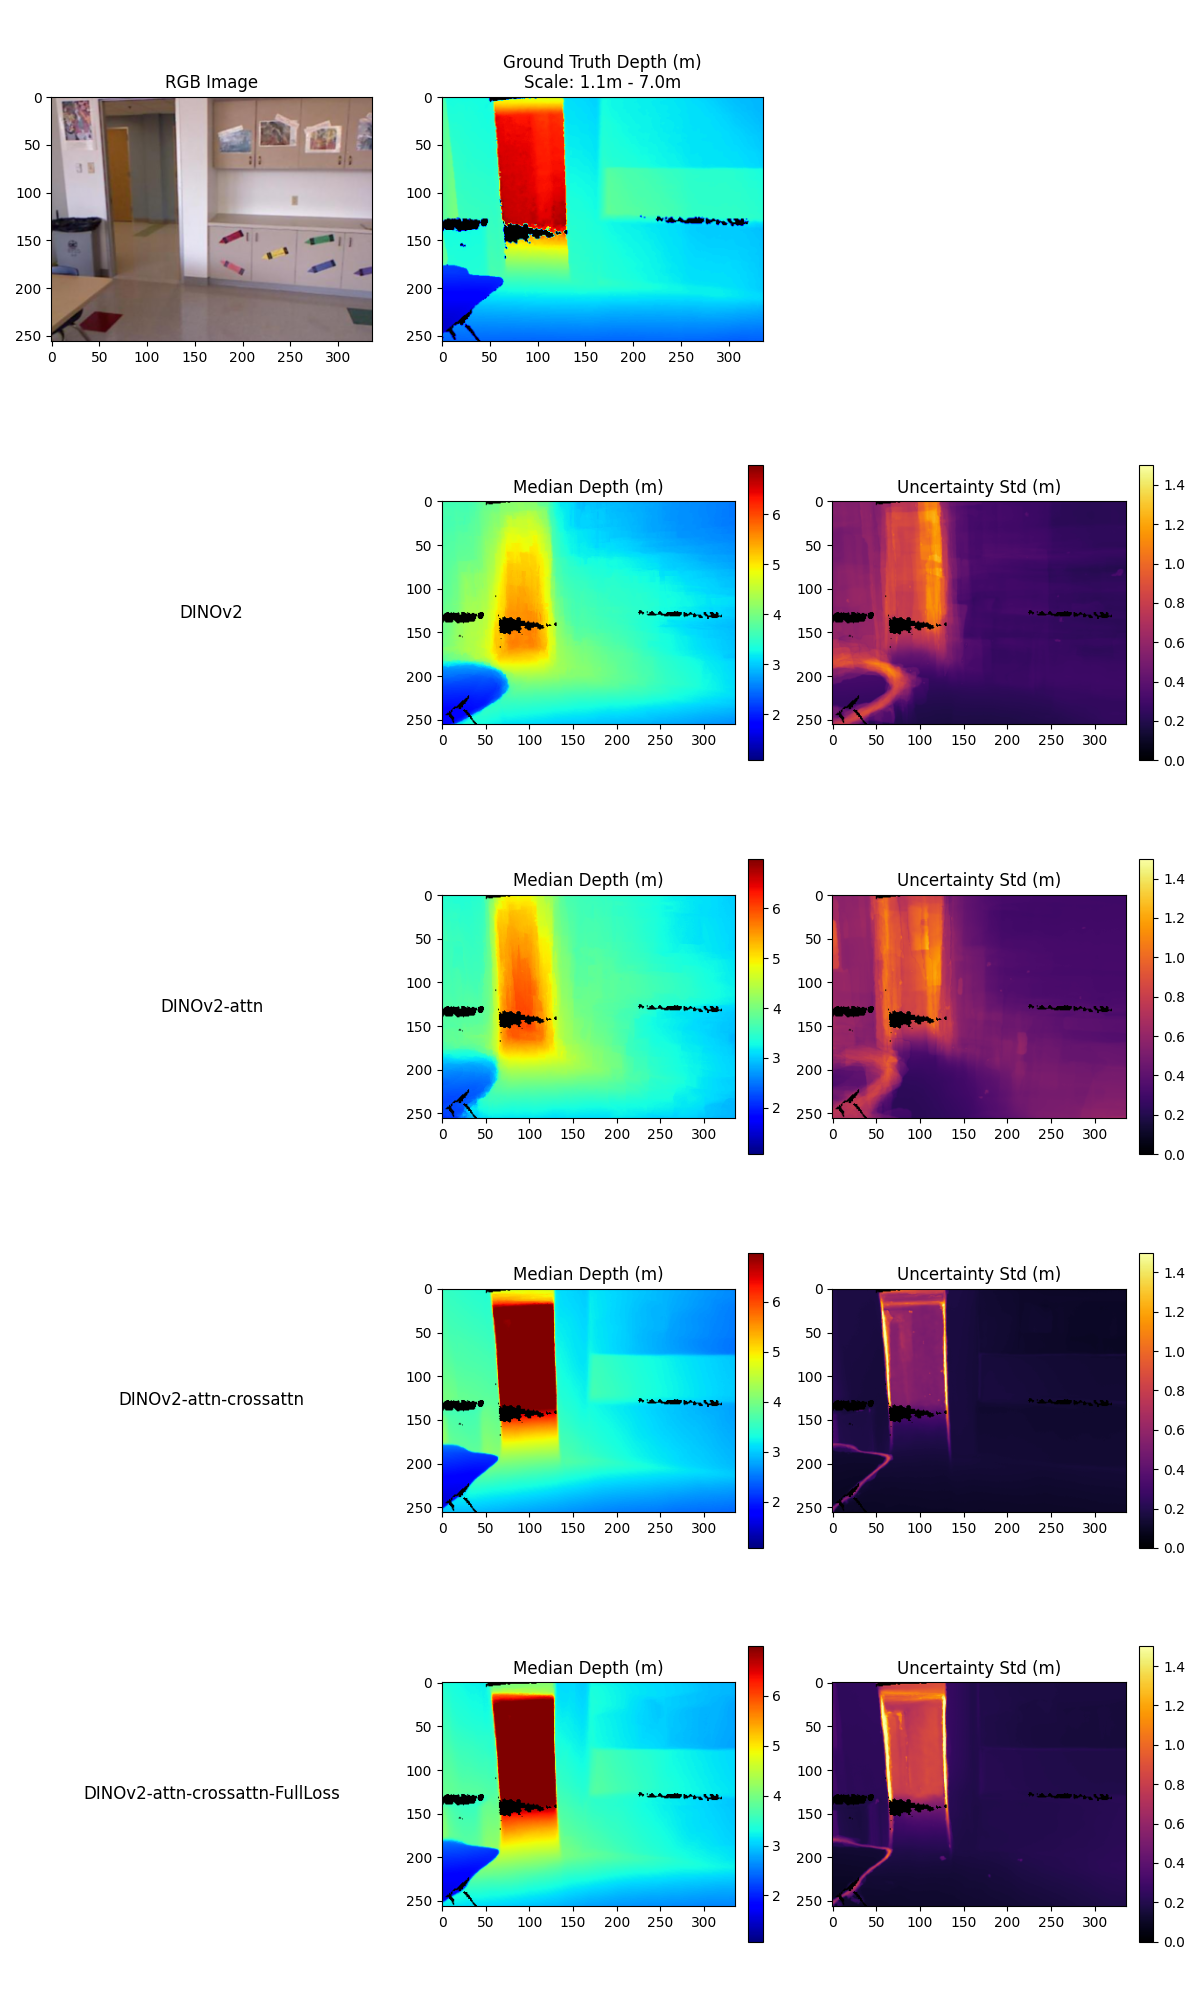
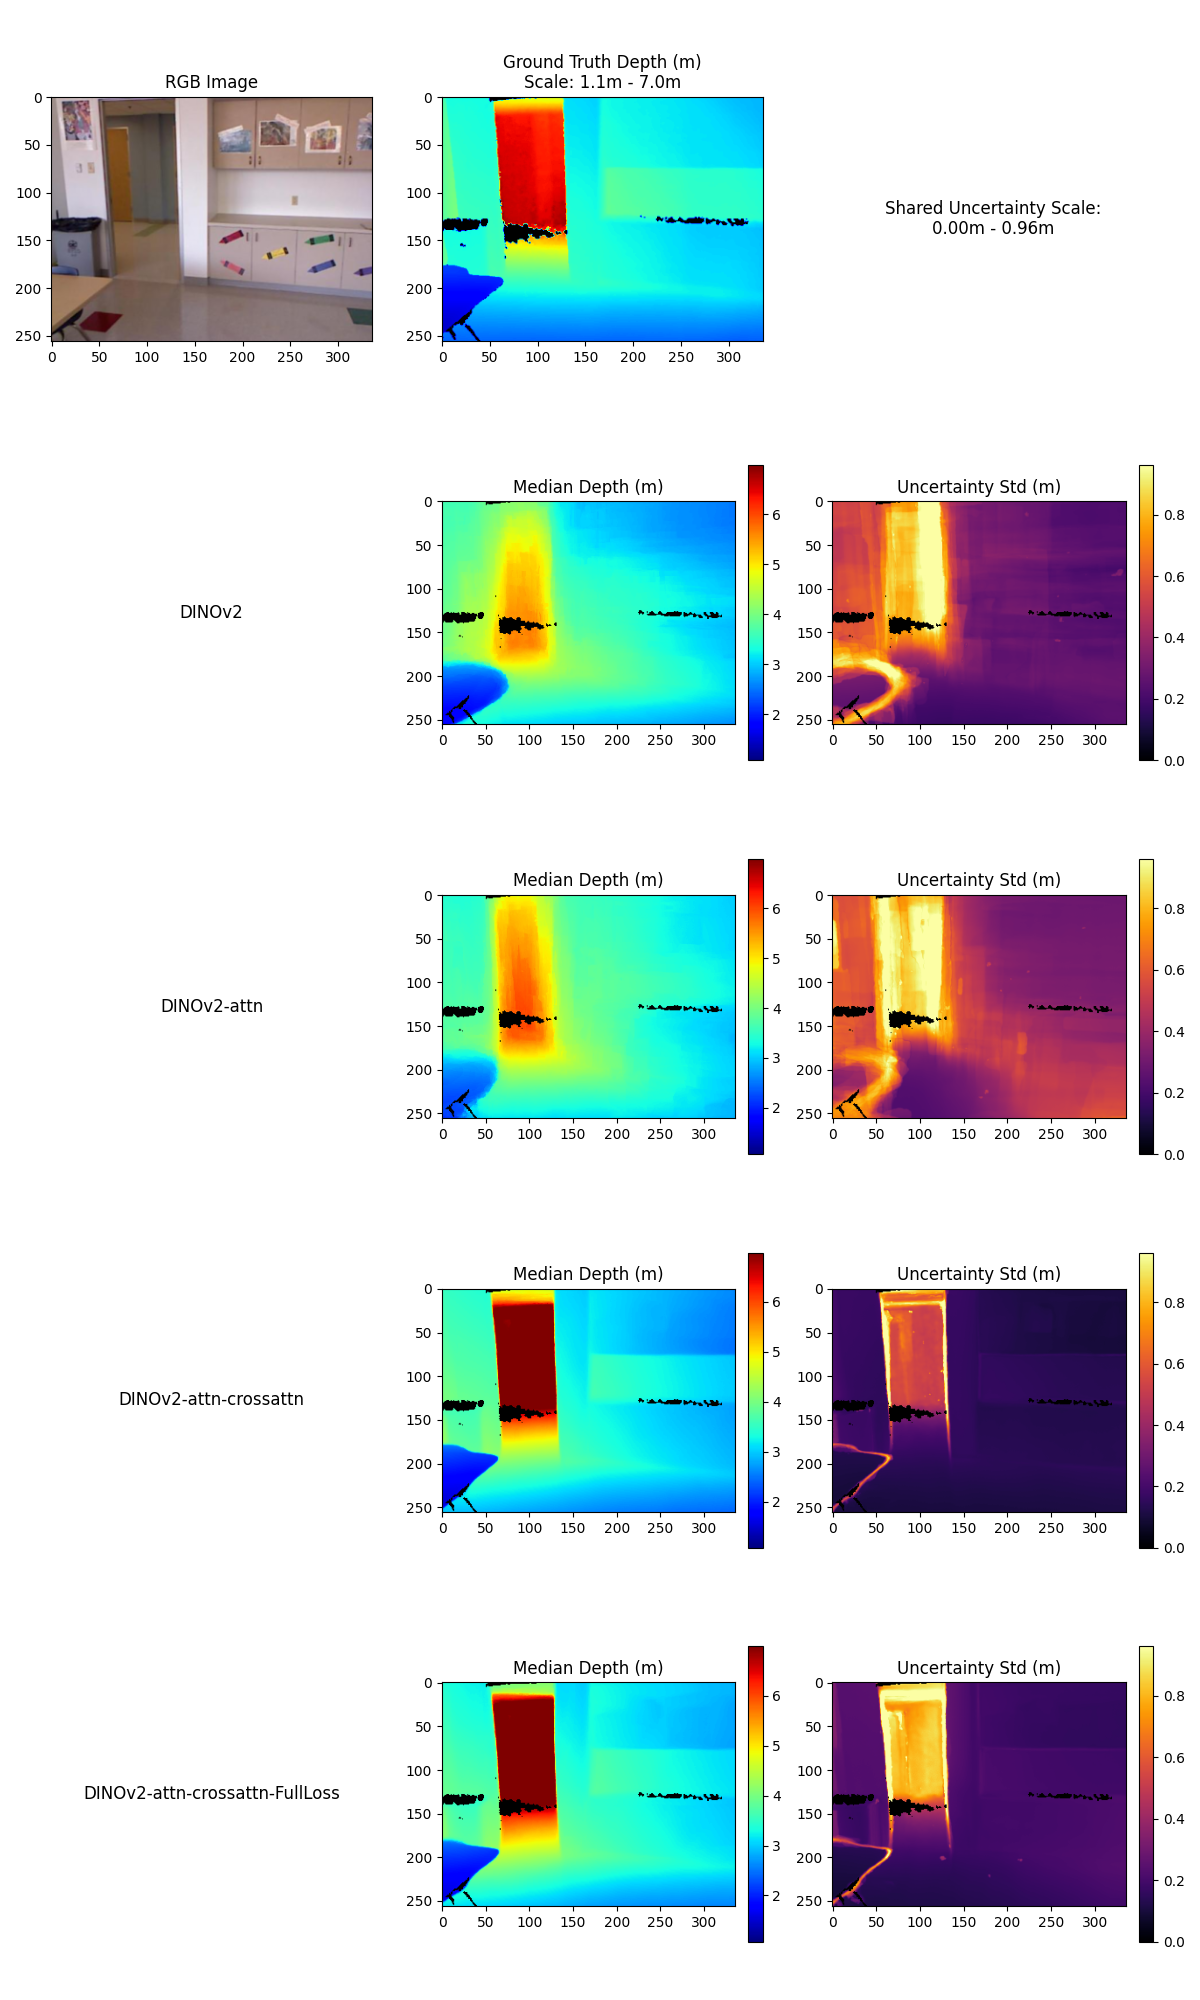
Dynamic std limits

diff --git a/src/compare_dinov2.py b/src/compare_dinov2.py
@@ -57,7 +57,6 @@ def create_superimposed_calibration(run_names, run_data, output_path):
     for name, data in zip(run_names, run_data):
         if data is not None and 'expected' in data:
             area_error = np.trapz(np.abs(data['observed'] - data['expected']), data['expected'])
-            
             plt.plot(data['expected'], data['observed'], label=f"{name} (AE: {area_error:.3f})", linewidth=2)
             
     plt.plot([0, 1], [0, 1], linestyle='--', color='red', alpha=0.6, label="Ideal")
@@ -88,12 +87,24 @@ def create_model_comparison_grid(rgb, gt_metric, mask, models_data, sample_idx, 
     
     gt_np[~valid_mask] = np.nan
     
+    # Dynamically calculate the smallest 99th percentile std across all models
+    std_p99_list = []
+    for run_name, data in models_data.items():
+        std_np = data['std'].squeeze().astype(float)
+        if valid_mask.any():
+            std_p99_list.append(np.percentile(std_np[valid_mask], 99))
+            
+    std_vmax = min(std_p99_list) if std_p99_list else 1.5
+
     axes[0, 0].imshow(rgb.permute(1, 2, 0).cpu().numpy())
     axes[0, 0].set_title("RGB Image")
     
     axes[0, 1].imshow(gt_np, cmap=cmap_jet, vmin=vmin, vmax=vmax)
     axes[0, 1].set_title(f"Ground Truth Depth (m)\nScale: {vmin:.1f}m - {vmax:.1f}m")
+    
     axes[0, 2].axis('off')
+    axes[0, 2].text(0.5, 0.5, f"Shared Uncertainty Scale:\n0.00m - {std_vmax:.2f}m", 
+                    fontsize=12, ha='center', va='center', wrap=True)
     
     for i, (run_name, data) in enumerate(models_data.items()):
         row = i + 1
@@ -110,7 +121,8 @@ def create_model_comparison_grid(rgb, gt_metric, mask, models_data, sample_idx, 
         std_np = data['std'].squeeze().astype(float)
         std_np[~valid_mask] = np.nan
         
-        im_std = axes[row, 2].imshow(std_np, cmap=cmap_inf, vmin=0.0, vmax=1.5)
+        # Apply the new dynamically calculated saturation limit
+        im_std = axes[row, 2].imshow(std_np, cmap=cmap_inf, vmin=0.0, vmax=std_vmax)
         axes[row, 2].set_title("Uncertainty Std (m)")
         plt.colorbar(im_std, ax=axes[row, 2], fraction=0.046, pad=0.04)
         
@@ -262,22 +274,19 @@ def main():
                     calib_out_png = f"comparisons/{run_name}_calib.png"
                     expected, observed = plot_calibration_curve(combined_samples, combined_gts, combined_masks, calib_out_png)
                     
-                    # Compute Golden Metrics!
                     img_metrics = []
                     for i in range(len(combined_samples)):
-                        pred_median = np.median(combined_samples[i], axis=0) # Get pixel-wise median across the 100 passes
+                        pred_median = np.median(combined_samples[i], axis=0)
                         res = compute_depth_metrics(pred_median, combined_gts[i], combined_masks[i])
                         if res: img_metrics.append(res)
                         
                     avg_metrics = {k: np.mean([m[k] for m in img_metrics]) for k in img_metrics[0].keys()}
                     
-                    # Log Metrics to MLflow
                     for k, v in avg_metrics.items():
                         client.log_metric(run_id, f"eval_50_{k}", float(v))
                         
                     final_metrics_table[run_name] = avg_metrics
                     
-                    # Save both Curve Data and Metrics locally
                     np.savez(local_calib_path, expected=expected, observed=observed, **avg_metrics)
                     calib_data_all.append({'expected': expected, 'observed': observed})
                 
@@ -351,7 +360,6 @@ def main():
             if len(gif_paths) == len(run_names) and len(gif_paths) > 0:
                 combine_gifs_vertically(run_names, gif_paths, f"comparisons/combined_evolution_{ii}.gif")
         
-        # Print Final Markdown Table
         if final_metrics_table:
             print("\n" + "="*85)
             print(f"{'Model (DINOv2 Variants)':<35} | {'Abs Rel':<7} | {'RMSE':<7} | {'RMSE log':<8} | {'δ<1.25':<7} | {'δ<1.25²':<7} | {'δ<1.25³':<7}")
